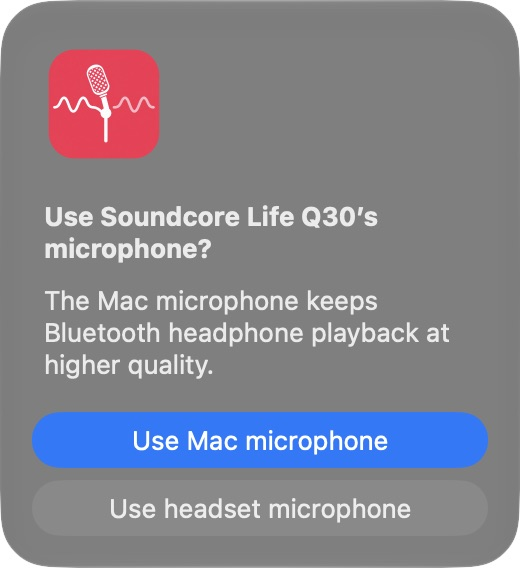
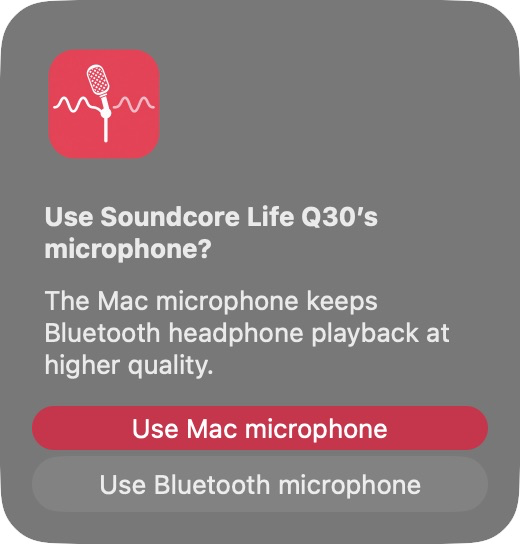
Center microphone prompt and highlight Mac choice
Style the Mac input action with an accessible raspberry accent, place the modal at the center of the active display, and use a universal Bluetooth microphone label. Refresh the screenshot and bump the app to 1.0.3.

diff --git a/Sources/MicrophoneChoice/main.swift b/Sources/MicrophoneChoice/main.swift
@@ -111,6 +111,7 @@ private func askAbout(_ device: InputDevice) {
         }
     }
 
+    let promptScreen = NSScreen.screens.first { $0.frame.contains(NSEvent.mouseLocation) } ?? NSScreen.main
     let alert = NSAlert()
     if let iconURL = Bundle.main.url(forResource: "MicChoice", withExtension: "png"),
        let icon = NSImage(contentsOf: iconURL) {
@@ -118,20 +119,43 @@ private func askAbout(_ device: InputDevice) {
     }
     alert.messageText = "Use \(device.name)’s microphone?"
     alert.informativeText = "The Mac microphone keeps Bluetooth headphone playback at higher quality."
-    alert.addButton(withTitle: "Use Mac microphone")
-    alert.addButton(withTitle: "Use headset microphone")
+    let macButton = alert.addButton(withTitle: "Use Mac microphone")
+    alert.addButton(withTitle: "Use Bluetooth microphone")
     alert.alertStyle = .informational
     alert.window.title = "Microphone Choice"
     alert.window.level = .floating
     alert.window.collectionBehavior = [.canJoinAllSpaces, .fullScreenAuxiliary]
     alert.layout()
-    alert.window.center()
+    let accentBackground = NSView()
+    accentBackground.wantsLayer = true
+    accentBackground.layer?.backgroundColor = NSColor(srgbRed: 214 / 255, green: 31 / 255,
+                                                      blue: 73 / 255, alpha: 1).cgColor
+    accentBackground.layer?.cornerRadius = 11
+    func centerPrompt() {
+        if let screen = promptScreen ?? NSScreen.main {
+            let bounds = screen.visibleFrame
+            let size = alert.window.frame.size
+            alert.window.setFrameOrigin(NSPoint(x: bounds.midX - size.width / 2,
+                                                y: bounds.midY - size.height / 2))
+        }
+    }
     if #available(macOS 14.0, *) {
         NSApp.activate()
     } else {
         NSApp.activate(ignoringOtherApps: true)
     }
     alert.window.makeKeyAndOrderFront(nil)
+    centerPrompt()
+    let positionTimer = Timer(timeInterval: 0.01, repeats: false) { _ in
+        macButton.isBordered = false
+        macButton.contentTintColor = .white
+        alert.layout()
+        macButton.frame = macButton.frame.insetBy(dx: 0, dy: -3)
+        accentBackground.frame = macButton.frame
+        macButton.superview?.addSubview(accentBackground, positioned: .below, relativeTo: macButton)
+        centerPrompt()
+    }
+    RunLoop.main.add(positionTimer, forMode: .common)
     log("Showing microphone choice for \(device.name)")
 
     let timeout = Timer(timeInterval: promptTimeout, repeats: false) { _ in
@@ -139,6 +163,7 @@ private func askAbout(_ device: InputDevice) {
     }
     RunLoop.main.add(timeout, forMode: .common)
     let answer = alert.runModal()
+    positionTimer.invalidate()
     timeout.invalidate()
     alert.window.orderOut(nil)
 

diff --git a/README.md b/README.md
@@ -44,7 +44,7 @@ Use one installation method at a time so that two copies do not both ask you abo
 
 1. Watches Core Audio for newly connected Bluetooth input devices, with a short periodic check as a fallback.
 2. Selects the built-in Mac microphone while it waits for your answer.
-3. Shows a dialog with **Use Mac microphone** and **Use headset microphone**.
+3. Shows a centered dialog with **Use Mac microphone** highlighted and **Use Bluetooth microphone** as the other choice.
 4. Keeps the Mac microphone if you dismiss the dialog or do not answer within 60 seconds.
 
 It works with Bluetooth devices that macOS exposes as microphone inputs. It changes the **system default input**, so an app that has its own microphone setting may still need a separate change. It does not change the Bluetooth output, codec, volume, or equalizer. On startup, if a connected Bluetooth microphone is currently the system input, it restores the built-in microphone.
